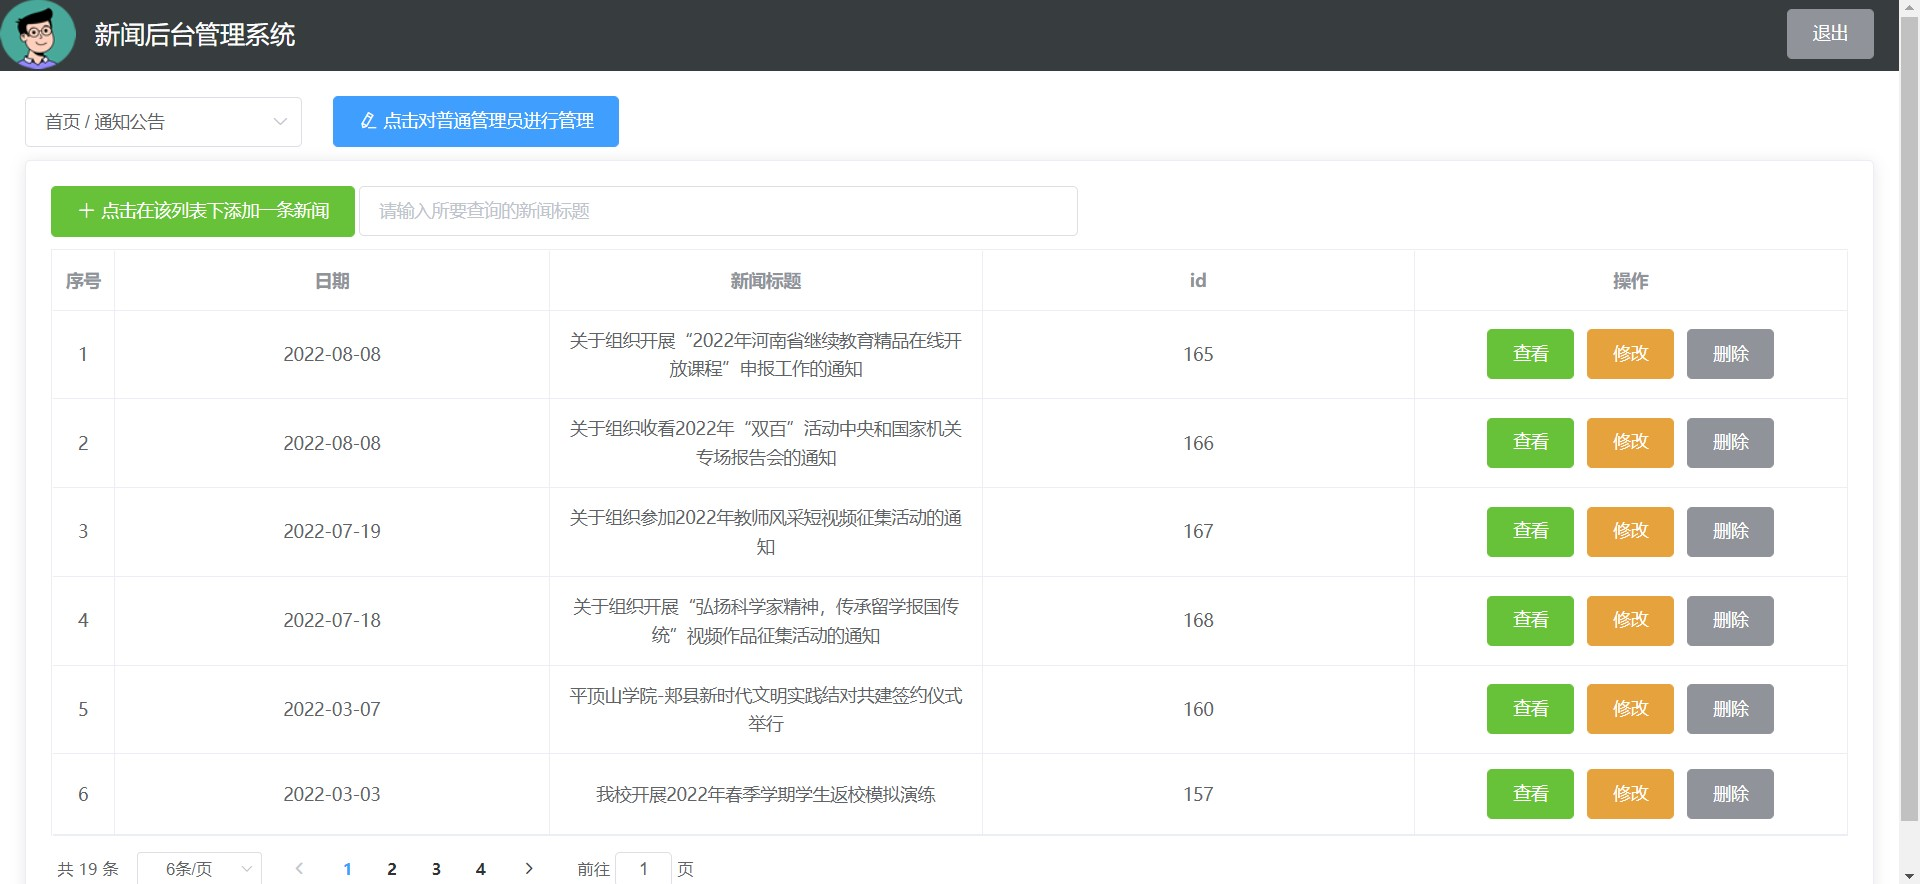
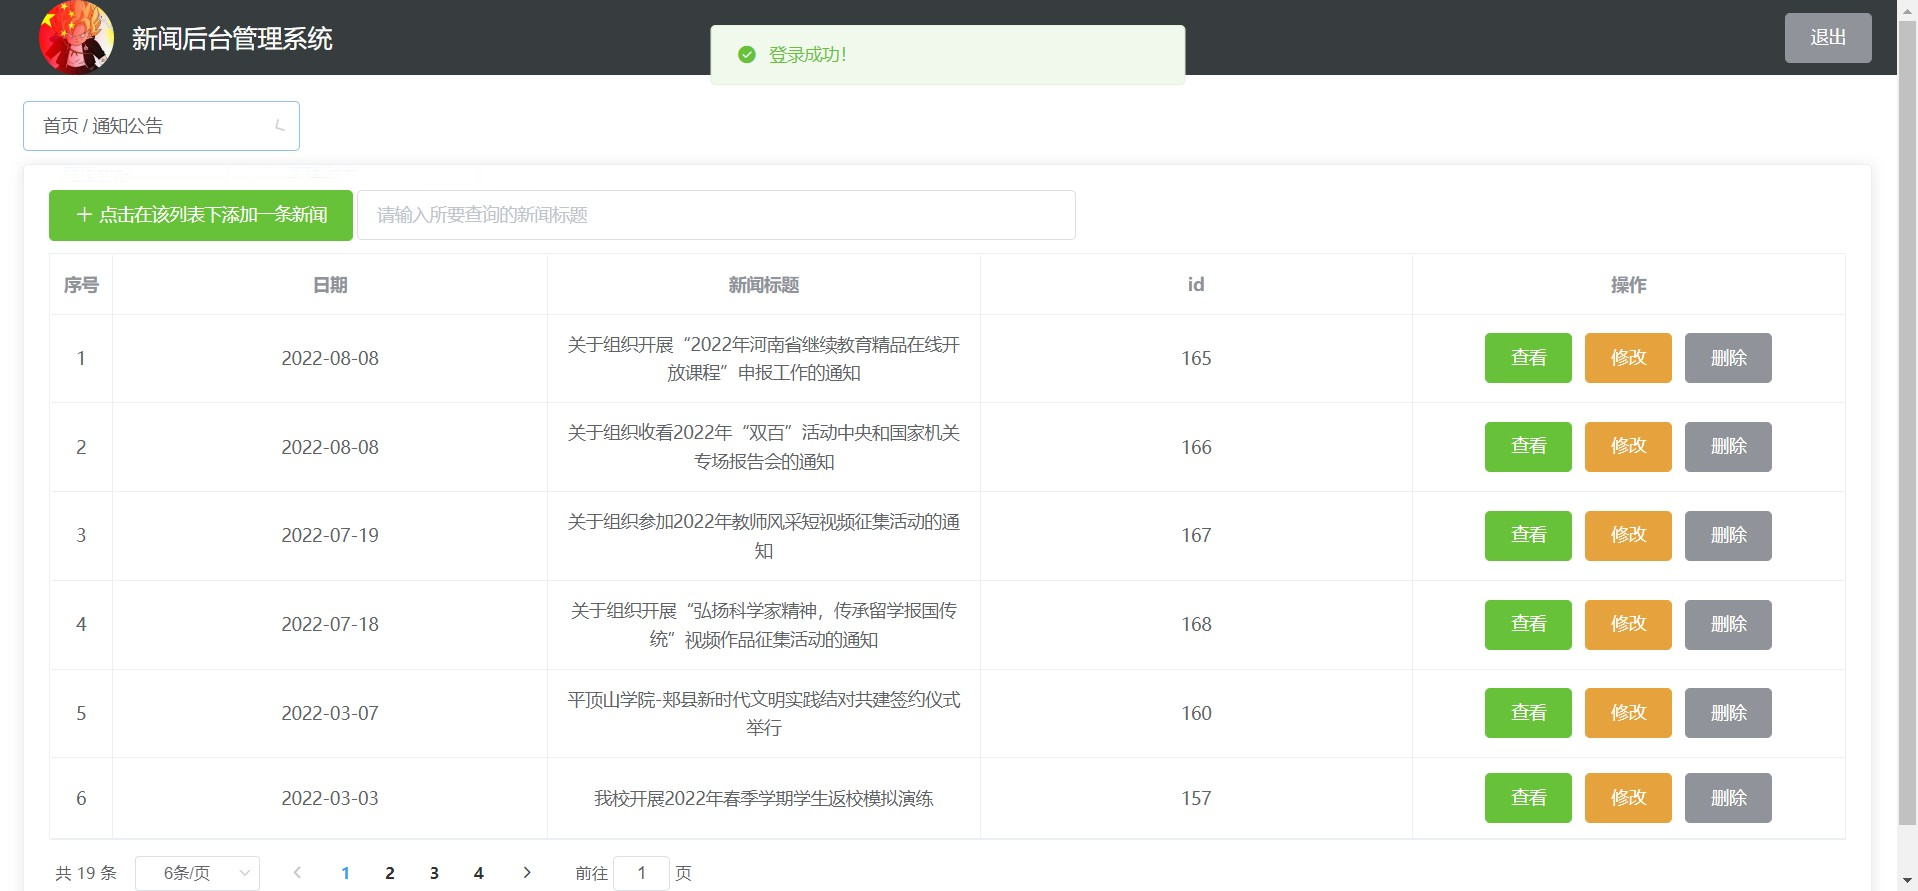
修改login

diff --git a/src/components/Login.vue b/src/components/Login.vue
@@ -3,7 +3,7 @@
     <div class="login_box">
       <!-- 头像区域 -->
       <div class="avatar_box">
-        <img src="../assets/logo.png" alt="" />
+        <img src="../assets/logo.jpg" alt="" />
       </div>
       <!-- 登录表单区域 -->
       <el-form ref="loginFormRef" :model="loginForm" label-width="0px" class="login_form">
@@ -32,8 +32,8 @@ export default {
     return {
       // 这是登录表单的数据绑定对象
       loginForm: {
-        username: '',
-        password: ''
+        username: 'rendong',
+        password: '123456'
       }
     }
   },
@@ -61,22 +61,6 @@ export default {
           this.$router.push('/administrator/main')
         }
       })
-
-      // this.$refs.loginFormRef.validate(async (valid) => {
-      //   if (!valid) return
-      //   const { data: res } = await this.$http.post('/login', this.loginForm)
-      //   console.log('12312123123123123')
-      //   console.log(res)
-      //   if (res.meta.status !== 200) return this.$message.error('登录失败！')
-      //   this.$message.success('登录成功')
-      //   // console.log(res)
-      //   // 1. 将登录成功之后的 token，保存到客户端的 sessionStorage 中
-      //   //   1.1 项目中出了登录之外的其他API接口，必须在登录之后才能访问
-      //   //   1.2 token 只应在当前网站打开期间生效，所以将 token 保存在 sessionStorage 中
-      //   window.sessionStorage.setItem('token', res.data.token)
-      //   // 2. 通过编程式导航跳转到后台主页，路由地址是 /home
-      //   this.$router.push('/administrator/main')
-      // })
     }
   }
 }
@@ -84,7 +68,7 @@ export default {
 
 <style lang="less" scoped>
 .login_container {
-  background-color: #2b4b6b;
+  background-color: #607eaa;
   height: 100%;
 }
 
@@ -128,6 +112,6 @@ export default {
 
 .btns {
   display: flex;
-  justify-content: flex-end;
+  justify-content: space-between;
 }
 </style>

diff --git a/src/components/Administrator/AdminHome.vue b/src/components/Administrator/AdminHome.vue
@@ -2,7 +2,7 @@
   <el-container class="home-container">
     <el-header>
       <div>
-        <img src="../../assets/head.png" alt="" />
+        <img src="../../assets/logo.jpg" alt="" />
         <span>新闻后台管理系统</span>
       </div>
       <el-button type="info" @click="logout">退出</el-button>
@@ -48,6 +48,13 @@ export default {
     display: flex;
     justify-content: center;
     align-items: center;
+    width: 300px;
+    height: 60px;
+    img {
+      width: 60px;
+      height: 100%;
+      border-radius: 50%;
+    }
     span {
       margin-left: 15px;
     }

diff --git a/src/components/page/News.vue b/src/components/page/News.vue
@@ -3,7 +3,7 @@
     <!-- <p>{{ this.$route.query.id }}</p> -->
     <div class="header">
       <h2>{{ title }}</h2>
-      <p>发布日期：{{ releaseTime }} 点击量：[ {{ (hits + 1) / 2 }} ]</p>
+      <p>发布日期：{{ releaseTime }} 点击量：[ {{ hits }} ]</p>
     </div>
     <hr />
     <div v-html="content" class="ql-editor"></div>

diff --git a/README.md b/README.md
@@ -44,5 +44,8 @@
 ![文件](./src/assets/preview/file.jpg)
 ![登录](./src/assets/preview/login.jpg)
 ![后台](./src/assets/preview/backstage.jpg)
+![编辑](./src/assets/preview/bianJi.jpg)
+![新闻](./src/assets/preview/info2.jpg)
 ![修改](./src/assets/preview/xiugai.jpg)
+![删除](./src/assets/preview/delete.jpg)
 ![注册](./src/assets/preview/zhuce.jpg)
